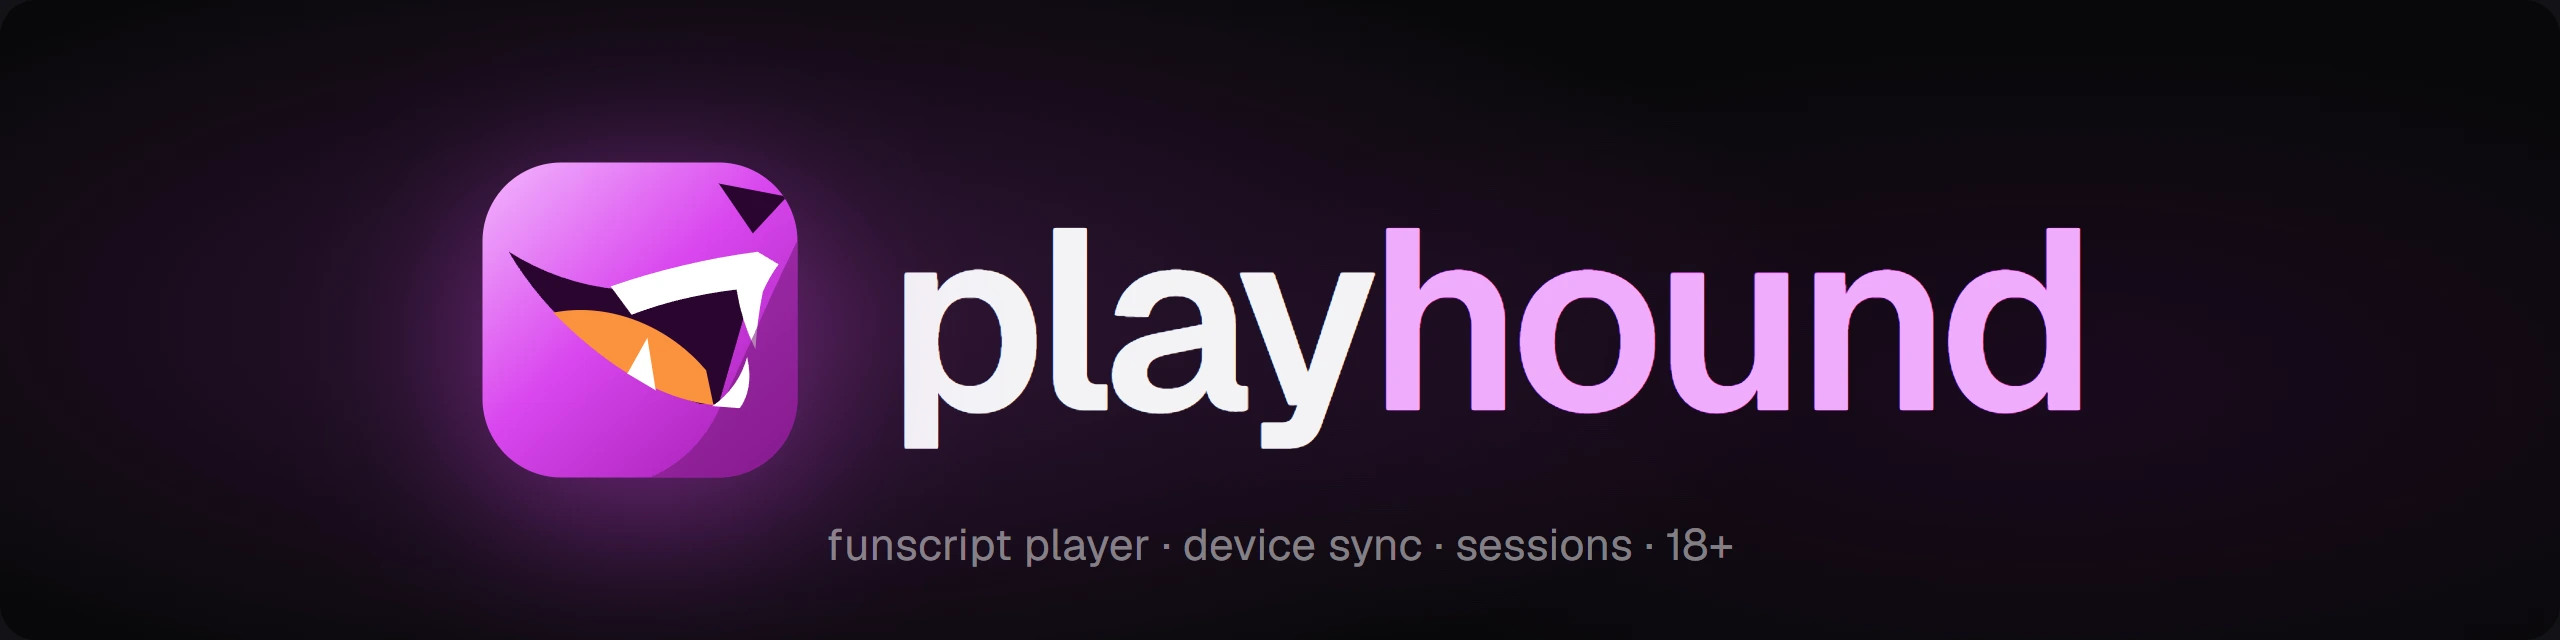
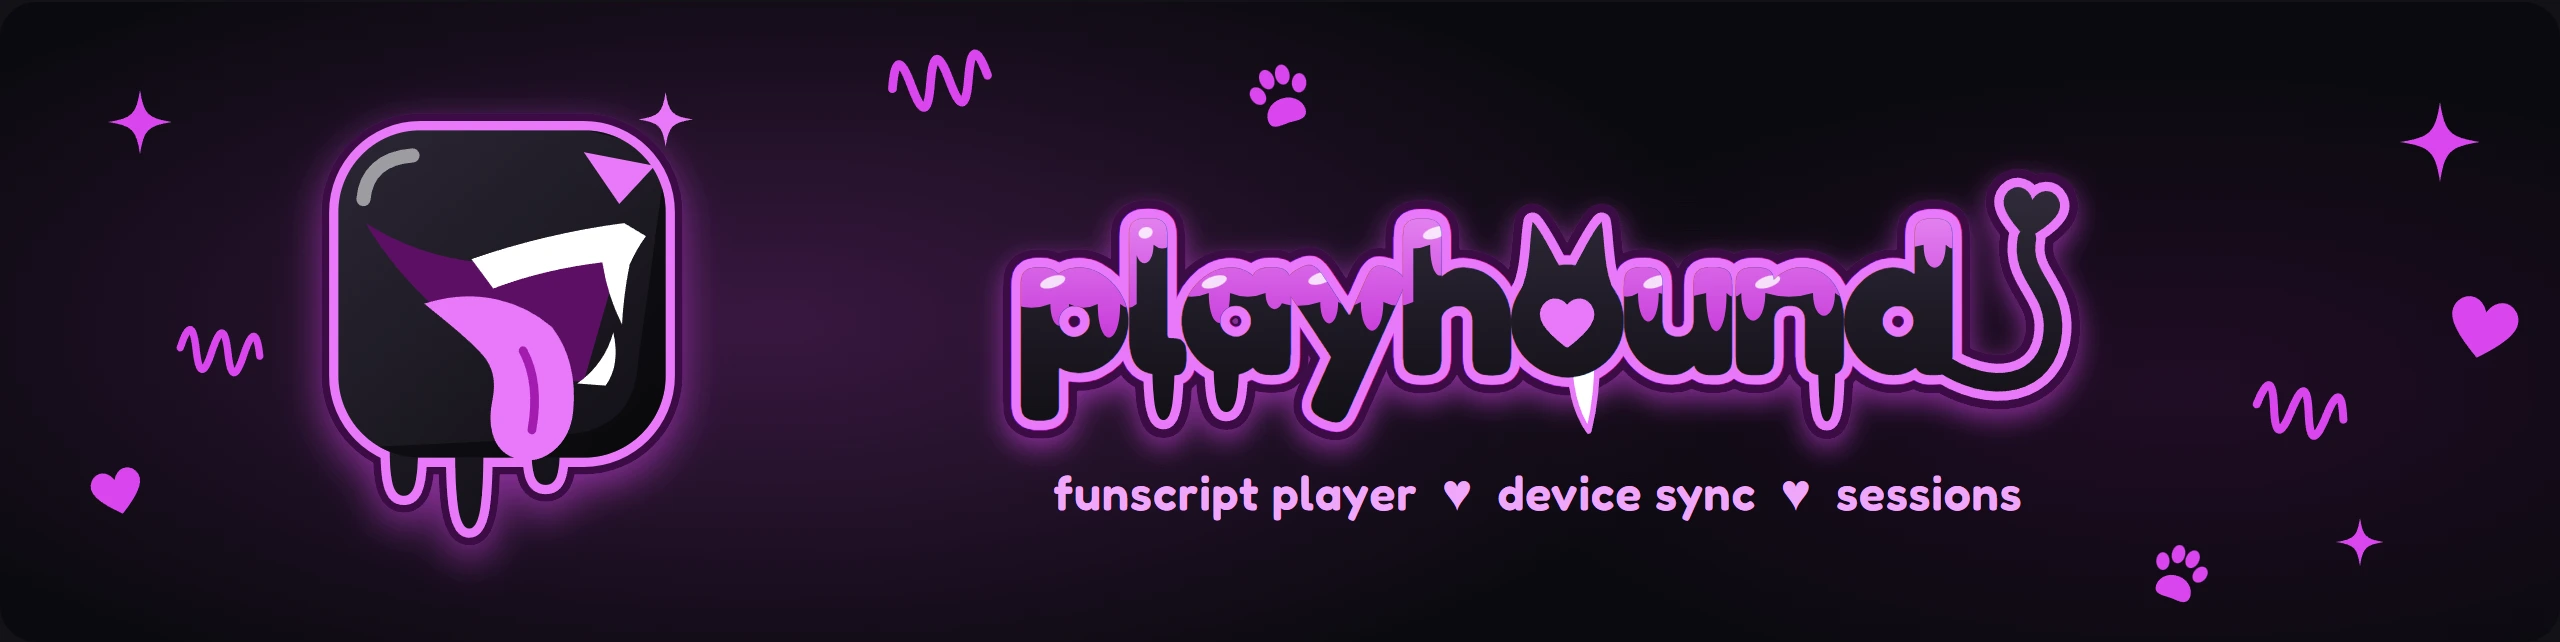
docs: README and plugin docs for 2.0, with the new header

diff --git a/README.md b/README.md
@@ -1,7 +1,7 @@
 <p align="center">
   <picture>
     <source media="(prefers-color-scheme: light)" srcset="docs/header-light.webp">
-    <img src="docs/header-dark.webp" alt="playhound: a magenta face with a sly grin next to the word playhound. Funscript player, device sync, sessions, 18+" width="100%">
+    <img src="docs/header-dark.webp" alt="playhound: a glossy sticker of a grinning muzzle with its tongue out, next to the word playhound in dripping candy letters with hound ears on the o and a tail on the d. Funscript player, device sync, sessions." width="100%">
   </picture>
 </p>
 
@@ -70,6 +70,16 @@ uploaded. Like it? [Get the Windows app](https://github.com/whatmekota/playhound
   seconds ahead and the Handy plays it on its own clock, kept in step with the
   video, so fast scripts play as written, and edges and the intensity knob
   still apply.
+- **Edit scripts in the app.** Per-video tweaks that never touch the file:
+  range, invert, a speed limit, smoothing and the offset. A point editor under
+  the video: click, box-select, drag a whole selection, nudge with the arrows,
+  undo, and save back next to the video (the original is kept as a `.bak`).
+- **Record a session as a script.** **Shift+C** records what the device does,
+  whatever drives it (manual, music, a programme, a plugin), and saves it as a
+  `.funscript`, timed to the video if one was playing.
+- **Subtitles and tags.** `.srt`, `.vtt` and `.ass` files next to a video are
+  picked up (**V** turns them on). Tag videos yourself, or filter by the tags
+  playhound works out from the scripts: pace, intensity, length, multi-axis, VR.
 - **Pop-out player.** **O** puts the video in a small window that stays on
   top of other apps, with the device still in sync. In the desktop app it can
   be made see-through and let clicks pass to the window underneath, so it can
@@ -78,7 +88,8 @@ uploaded. Like it? [Get the Windows app](https://github.com/whatmekota/playhound
   equirectangular or fisheye.
 - **No script? Use the music.** It finds the beat in the video's soundtrack and
   strokes in time with it, or writes a real `.funscript` from the whole track
-  that you can save and edit. If it hears the beat wrong, tap it in with **T**.
+  that you can save and edit. If it hears the beat wrong, tap it in with **T**,
+  even with no video at all: tap along to anything and the device follows.
 - **Stays in control.** **E** edges: everything backs off for a while and eases
   back in. An intensity knob scales every source. **G** jumps to the next
   peak and **Shift+G** to the most intense part. **Esc** is panic.
@@ -102,13 +113,25 @@ uploaded. Like it? [Get the Windows app](https://github.com/whatmekota/playhound
   watches the session and reacts. The face also comes as Kerfus, the cat robot,
   and can fill a second monitor instead of a board.
 - **Plugins.** Extra features from a plugin store (GitHub repositories you
-  follow) or a zip, with their own settings and panel. The first is
-  [playmate](https://github.com/whatmekota/playmate), an AI partner that
-  talks, moves the device and can run a whole session. Writing one is
-  described in [docs/plugins.md](docs/plugins.md).
-- **Desktop app.** A Windows build with a frameless window. It keeps driving the
-  device while minimised, remembers your library folder, and can show Discord
-  Rich Presence (off by default).
+  follow) or a zip. Each says what it needs before you install it, and can add
+  a panel, a full page, commands and shortcuts. The official ones:
+  - [playmate](https://github.com/whatmekota/playmate): an AI partner that
+    talks, moves the device and can run a whole session.
+  - [ph2gether](https://github.com/whatmekota/ph2gether): together mode. Two
+    people, each with their own playhound and device, watch and play in sync
+    over the internet, with a chat for swapping links. The apps connect
+    directly, encrypted; five emojis to compare out loud show that nobody is
+    in between.
+  - [phbrowser](https://github.com/whatmekota/phbrowser): a web browser on
+    playhound's stage, so tap tempo and generated motion keep going while you
+    browse (desktop app).
+
+  Writing one is described in [docs/plugins.md](docs/plugins.md), including a
+  dev mode that reloads your plugin as you save.
+
+- **Desktop app.** For Windows, macOS and Linux. It keeps driving the device
+  while minimised, remembers your library folder, updates itself (Windows and
+  Linux), and can show Discord Rich Presence (off by default).
 
 ## Getting started
 
@@ -265,6 +288,7 @@ The ones you'll use most:
 | **C**            | I came: marks it on the video and in Stats          |
 | Shift+C          | record what the device does · stop and save         |
 | **T** · Shift+T  | tap tempo for the Music source · forget it          |
+| **V** · Shift+V  | subtitles on/off · next subtitle track              |
 | B · S            | bookmark here · star the video                      |
 | **Esc** or **`** | **panic**: stop everything and cover the screen     |
 
@@ -351,19 +375,20 @@ it full screen on your second display, and it needs no relay or setup.
 ### Around the app
 
 - **Left nav:** Player, Library, Playlists, Media Wall, Slideshow,
-  EroScripts, Organizer, Stats.
+  EroScripts, Organizer, Stats, and a button for each plugin that has a page.
 - **Right rail:** Queue, Scripts, Bookmarks, Device, Motion, Programme, Remote,
-  Face, Binaural, Hypno, Director, Backup, and Plugins once a plugin has a
-  panel. Middle-click a panel icon to pin it.
+  Face, Binaural, Hypno, Director, Backup, and a button for each plugin that
+  has a panel. Middle-click a panel icon to pin it.
 - **Plugins:** Settings → Plugins installs them from the store or a zip and
-  holds their settings. A plugin runs with playhound's own access, so install
-  only ones you trust.
+  holds their settings. The install screen lists what a plugin asks for;
+  official plugins (by whatmekota) carry a check mark. A plugin still runs
+  inside playhound, so install only ones you trust.
 - **Library:** one folder or several (a collection split across drives),
-  search, filter chips, sort by folder, script intensity and speed sparklines,
+  search (`tag:name` too), filter chips and tags, sort by folder, script intensity and speed sparklines,
   hover-scrub previews, and an **auto-director** that picks the next video
   to suit the moment.
-- **Organizer:** rename a video and all its scripts together, keeping the
-  axis suffixes.
+- **Organizer:** rename a video and all its scripts and subtitles together,
+  keeping the axis suffixes and language tags.
 - **EroScripts:** browse Free Scripts, play a post's video with its scripts,
   download both under one name, save posts for later (see
   [The EroScripts browser](#the-eroscripts-browser)).
@@ -403,6 +428,10 @@ world only when you use a feature that needs it:
 - **the Handy over WiFi**: commands go through Handy's server with your
   connection key, and **Whole script** uploads the shaped script to Handy's
   script hosting. Over Bluetooth nothing leaves your computer.
+- **ph2gether** (plugin): your app and your partner's connect directly; public
+  relays only help them find each other and never see what you watch. Your
+  partner sees your IP address.
+- **phbrowser** (plugin): the sites you visit, in a browsing session of its own.
 - **Discord Rich Presence**: desktop app only, off by default. Its Minimal mode
   shows the app and a timer, never what's playing; titles appear only if you
   write a custom template that asks for them.
@@ -455,8 +484,9 @@ Conventions that keep it in one piece:
 
 This is a personal project, built for and tested on one setup (Windows, Chrome,
 an OSR2). Forum testers have since run the Handy on real hardware: a Handy 2
-over WiFi and Bluetooth, and a Handy 1 over WiFi. Still waiting on real
-hardware:
+over WiFi and Bluetooth, and a Handy 1 over WiFi. The macOS app has been tried
+on an Apple silicon Mac; the Linux app is built but untested. Still waiting on
+real hardware:
 
 - the Handy's Live mode and generated motion over WiFi (fixed in 1.4.0, not yet
   confirmed)

diff --git a/docs/plugins.md b/docs/plugins.md
@@ -15,7 +15,12 @@ screen shows them in plain words. The API holds the plugin to its list: a
 call outside it throws. That is about being upfront with the user, not a
 sandbox.
 
-For a complete, real plugin, see [playmate](https://github.com/whatmekota/playmate).
+For complete, real plugins, see the official ones:
+[playmate](https://github.com/whatmekota/playmate) (panels, settings, motion,
+the network), [ph2gether](https://github.com/whatmekota/ph2gether) (sync,
+fingerprints, commands, WebRTC) and
+[phbrowser](https://github.com/whatmekota/phbrowser) (a stage page with a web
+view). All three are TypeScript bundled with esbuild into one module.
 
 ## The zip
 
@@ -316,3 +321,12 @@ repository by `owner/repo` or its github.com link in **Settings → Plugins →
 Get plugins**. Nothing installs or updates without them clicking.
 
 Don't put API keys or other secrets in a published zip.
+
+### Official and trusted plugins
+
+Plugins from repositories owned by **whatmekota** are playhound's own: the
+store and the installed list show a check mark next to them. Authors known to
+the project can be added to a trusted list (`TRUSTED_OWNERS` in
+`src/plugins/sources.ts`); their plugins get a heart. Either mark is a
+statement about the author, not a review of every release, and neither changes
+what a plugin is allowed to do: that's still its permissions.
